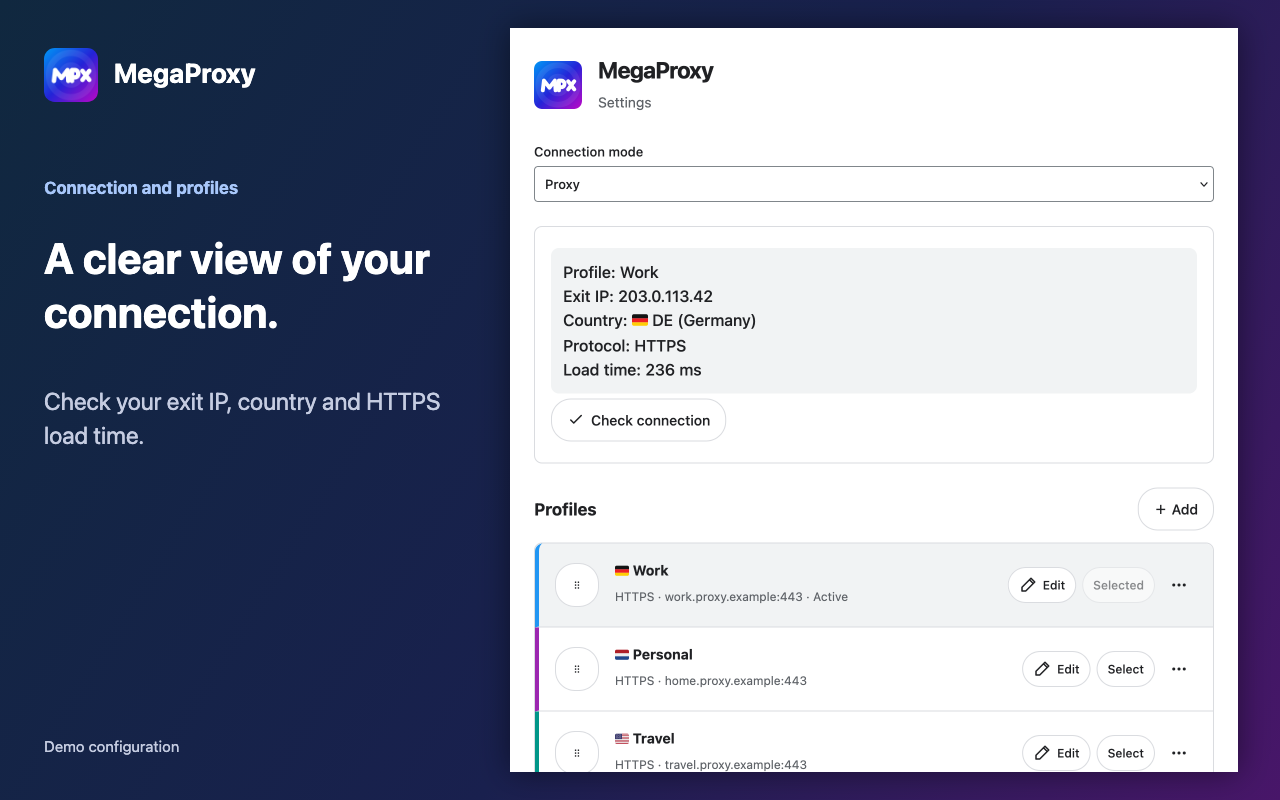
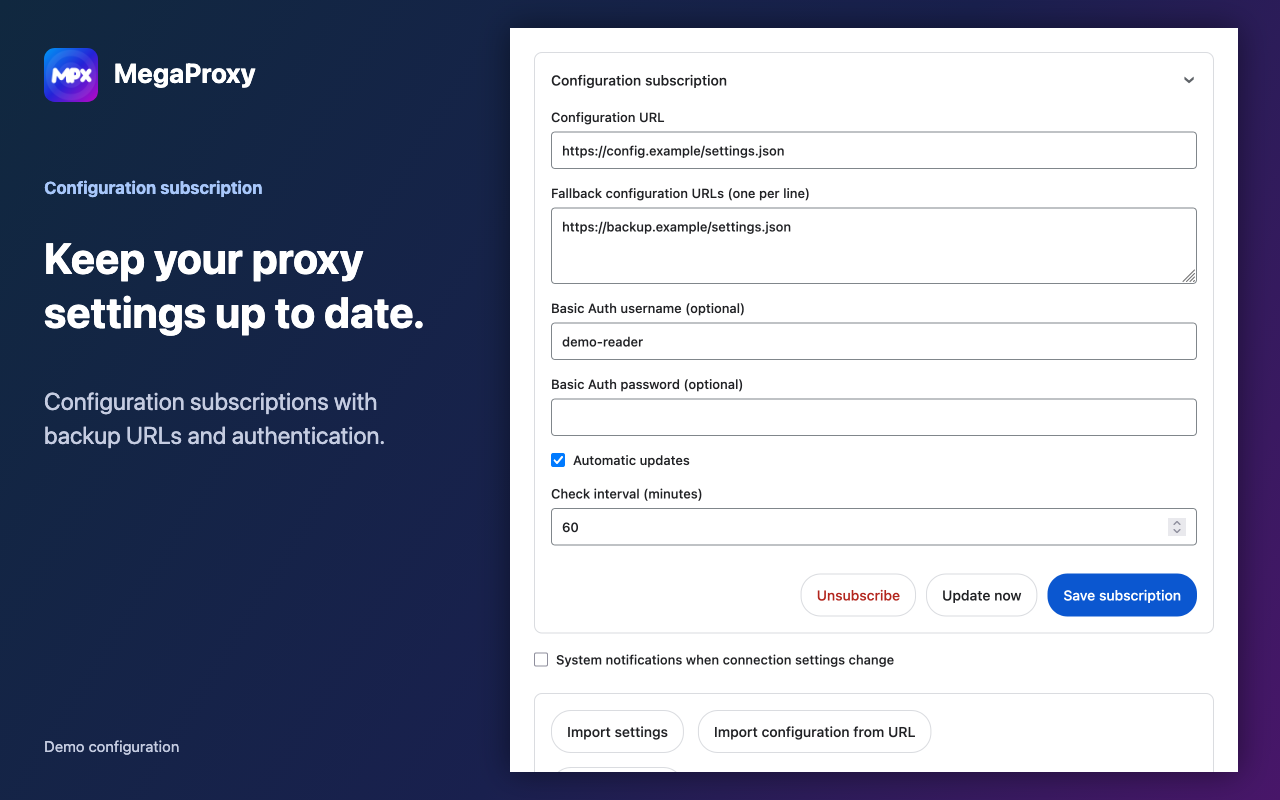
Highlight subscriptions and routing in store materials

diff --git a/store/REVIEWER-NOTES.md b/store/REVIEWER-NOTES.md
@@ -16,7 +16,7 @@ There is no remote executable code. UI scripts and schema validation are package
 2. Open settings. Add an HTTP or HTTPS CONNECT proxy you control. Save and select it. Test Proxy, Direct and System, then run a connection check.
 3. Expand Routing mode. Test manual domains and subdomain wildcards, rule testing and automatic list selection. Firefox additionally exposes By tabs. Chrome and Opera do not offer tab routing.
 4. Test import/export using non-sensitive HTTPS profiles. HTTP profiles and HTTPS proxies with IPv6 addresses cannot be exported under the portable contract. Imports also accept FoxyProxy, ZeroOmega, ProxyList and SuperProxy, with compatibility warnings.
-5. Import a complete configuration from a URL you control and enable a subscription, or import a MegaProxy file containing `subscription`. Set the interval, pause automatic checks, and confirm **Update now** works in settings and popup while paused. Optional Basic Auth requires HTTPS. Use only trusted backup URLs because they receive the same configured credentials.
+5. Import a complete configuration from a URL you control and enable a subscription, or import a MegaProxy file containing `subscription`. Expand the subscription editor; edit source URLs, credentials and the interval. Pause automatic checks and confirm **Update now** works in settings and popup while paused. Cancel the subscription and verify the imported profiles remain. Optional Basic Auth requires HTTPS. Use only trusted backup URLs because they receive the same configured credentials.
 6. Change the active profile's endpoint in the subscription, then remove it in the next snapshot. A surviving local selection stays selected; a removed selection uses the downloaded `activeProfileId` or first supported profile. Direct/System remain unchanged; failed downloads retain the working configuration.
 7. Confirm effective proxy or Podkop-rule changes show a popup/settings notice and toolbar `!`. New requests use the updated settings. Firefox advises reloading existing pages; Chromium recommends a restart for existing connections. Enable **System notifications when connection settings change** in settings to request optional consent; refusal does not block updates. Acknowledge the notice to clear it.
 8. Inspect General preferences: theme, language, WebRTC, synchronization/password synchronization and request monitoring. Disable monitoring and confirm its UI disappears.
@@ -25,6 +25,12 @@ There is no remote executable code. UI scripts and schema validation are package
 Firefox 146+ experimental MASQUE requires trusted TLS and a reachable UDP port, with
 no username/password authentication. CONNECT-TCP scenarios are tested; HTTP/3 over
 CONNECT-UDP is not confirmed. See the [MASQUE limitations](../README.md#experimental-masque-in-firefox).
+
+A manual URL import offers a direct retry only after a proxied transport failure and
+explicit confirmation. HTTP errors such as 403 do not trigger that prompt. Successful
+downloads require a separate import confirmation, highlighted in the settings page.
+Tunnel failures or timeouts without a knock host can show a possible-camouflage hint;
+this does not assert a definite diagnosis or change routing automatically.
 
 No MegaProxy account is required. A Proxy-mode connection test needs a working proxy supplied by the reviewer. Direct and System checks work without a configured profile. Do not treat the illustrative `.example` servers in store screenshots as usable credentials. The repository’s `tests/megaproxy-server` fixtures support real-proxy automated tests; see [test setup and reports](../docs/testing.md).
 

diff --git a/store/PRIVACY.md b/store/PRIVACY.md
@@ -1,6 +1,6 @@
 # MegaProxy privacy policy
 
-Last updated: 10 October 2026.
+Last updated: 11 October 2026.
 
 MegaProxy is an open-source browser extension that manages user-provided proxy settings. It has no developer-operated analytics, advertising, account service or telemetry endpoint. The developer does not receive your browsing history, proxy credentials, request counters or diagnostic logs from the extension.
 
@@ -32,6 +32,18 @@ When you run a connection check, the extension contacts example.com and public I
 Automatic list features fetch catalog metadata and selected domain lists from GitHub (api.github.com and raw.githubusercontent.com, including itdoginfo/allow-domains). If selected lists exceed the rule limit, a public popularity ranking may be fetched from the wangmm001/tranco-top1m-cache GitHub mirror or tranco-list.eu to prioritize domains. These providers receive ordinary request metadata, including the source IP. The extension does not send your browsing history to rank domains. Updates can be sent through the active proxy. Unused lists are not downloaded in other routing modes; opening routing settings can refresh stale catalog metadata.
 
 Importing a configuration from a URL contacts that user-provided address. A configuration subscription repeats these requests at the saved interval until automatic checks are paused in Settings. Manual refresh remains available while paused. Backup URLs are tried in order when an earlier source fails; each configured source may receive the same Basic Auth credentials, so only use servers you trust. Subscription downloads reject redirects. The subscription URLs and optional Basic Auth credentials are stored locally and included in exports; passwords follow the password export preference. Subscription settings are not browser-synchronized. The server receives normal request metadata, X-MegaProxy-Client and X-MegaProxy-Version headers identifying the browser client implementation and extension version, and, when configured, the subscription credentials over HTTPS. The imported configuration may contain proxy credentials and change proxy settings; use a trusted source. Failed updates preserve the last working configuration.
+
+Subscription source URLs may be replaced by URLs supplied in a downloaded configuration;
+locally configured credentials and update preferences are retained. You can edit source
+URLs and credentials or cancel the subscription in Settings. Cancellation stops future
+subscription refreshes and keeps the imported proxy profiles.
+
+If a manual configuration download through the proxy fails, MegaProxy may ask whether
+to retry without the proxy. Accepting sends the download directly to the configuration
+server, using the same configured Basic Auth credentials when applicable. That server
+receives the direct connection's source IP. Only the configuration host temporarily
+bypasses the proxy, and normal routing is restored after the attempt. Cancelling leaves
+the download failed; automatic subscription updates do not make this direct retry.
 
 ## Control and contact
 

diff --git a/store/README.md b/store/README.md
@@ -10,6 +10,10 @@ Prepared for Chrome Web Store, Firefox Add-ons (AMO) and Opera Add-ons. English 
 Run `npm run store:check:chrome` to compare the public Chrome listing with the repository without a browser or store credentials. The report and comparison images are saved under `test-results/chrome-store-materials/`; use `npm run store:check:chrome -- --help` for release-archive checks. Text comparison ignores whitespace differences. Image comparison normalizes resolution and color space, lightly smooths compression noise, then uses SSIM across RGB channels for both the whole image and local regions, so compression and resizing can match while a small UI change can still trigger a warning. The comparison is approximate; review differences before replacing materials. Fetch, parsing, image decoding and report errors warn instead of stopping publication.
 
 Edit `name.txt`, `summary.txt`, `description.txt`, `homepage.txt` and `support.txt` directly.
+Keep summaries consistent with `extensionDescription` in the extension locale files:
+Chrome takes its short description from the uploaded package. Lead descriptions with
+configuration subscriptions, authentication and routing capabilities; explain the
+browser-specific limits before making claims about camouflage or MASQUE.
 Descriptions use plain text with `•` bullet markers, not Markdown. Put one screenshot
 caption per line in `screenshot-captions.txt`, in gallery order.
 
